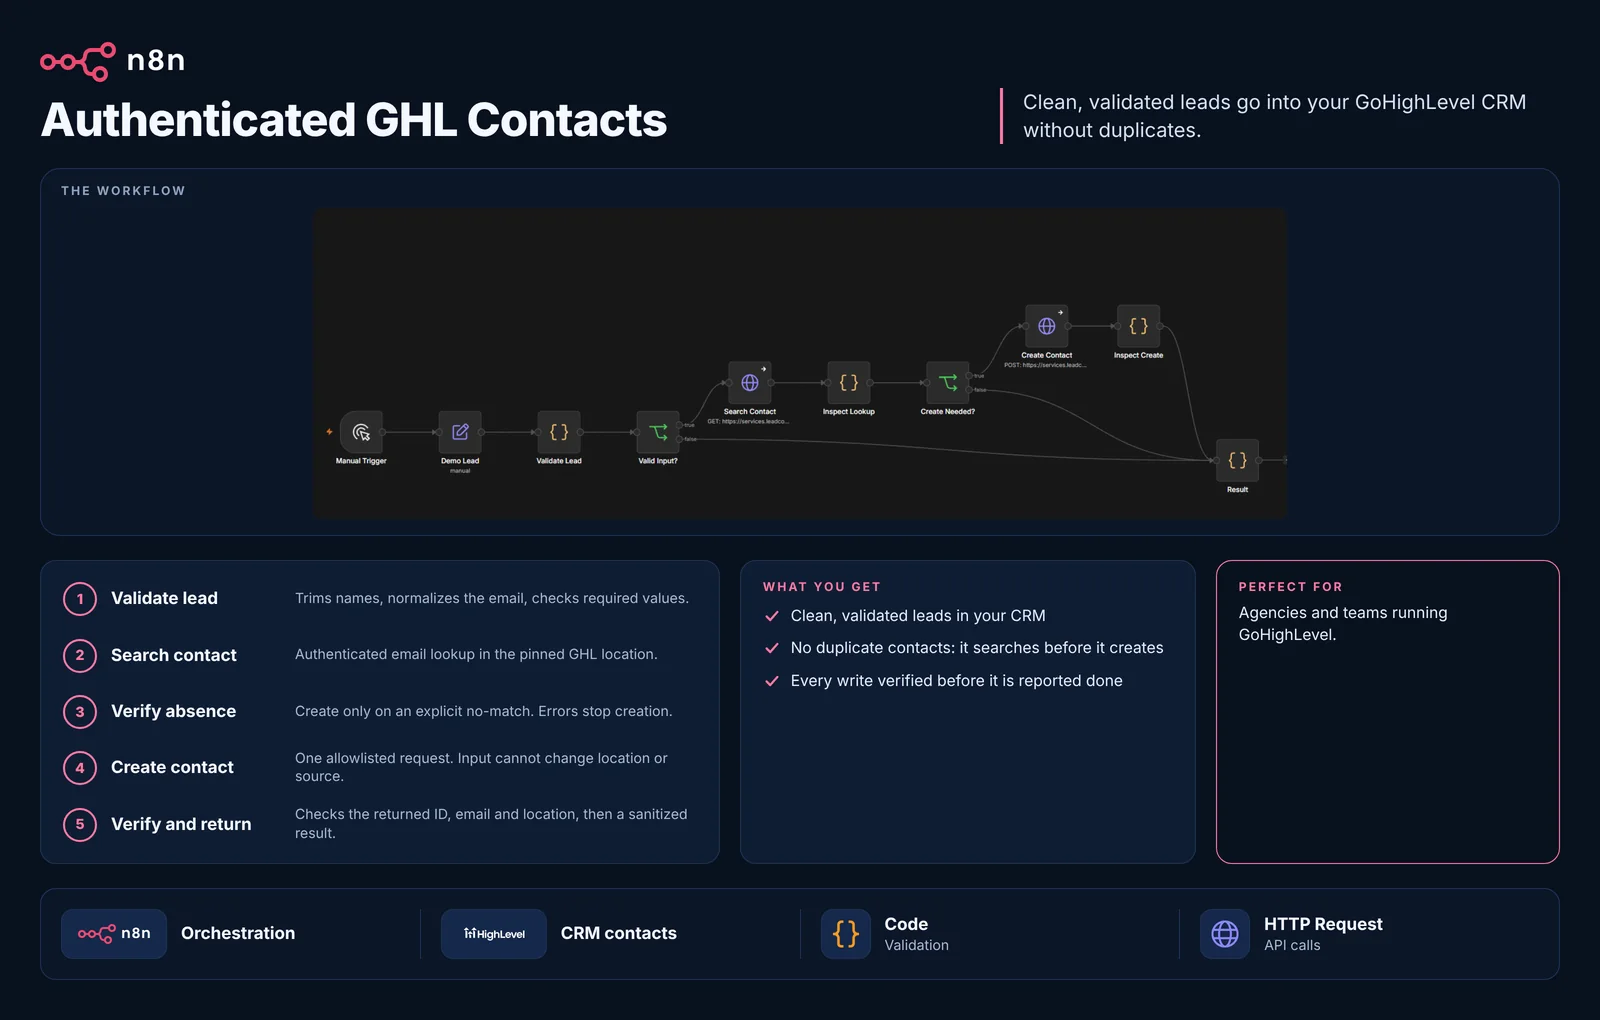
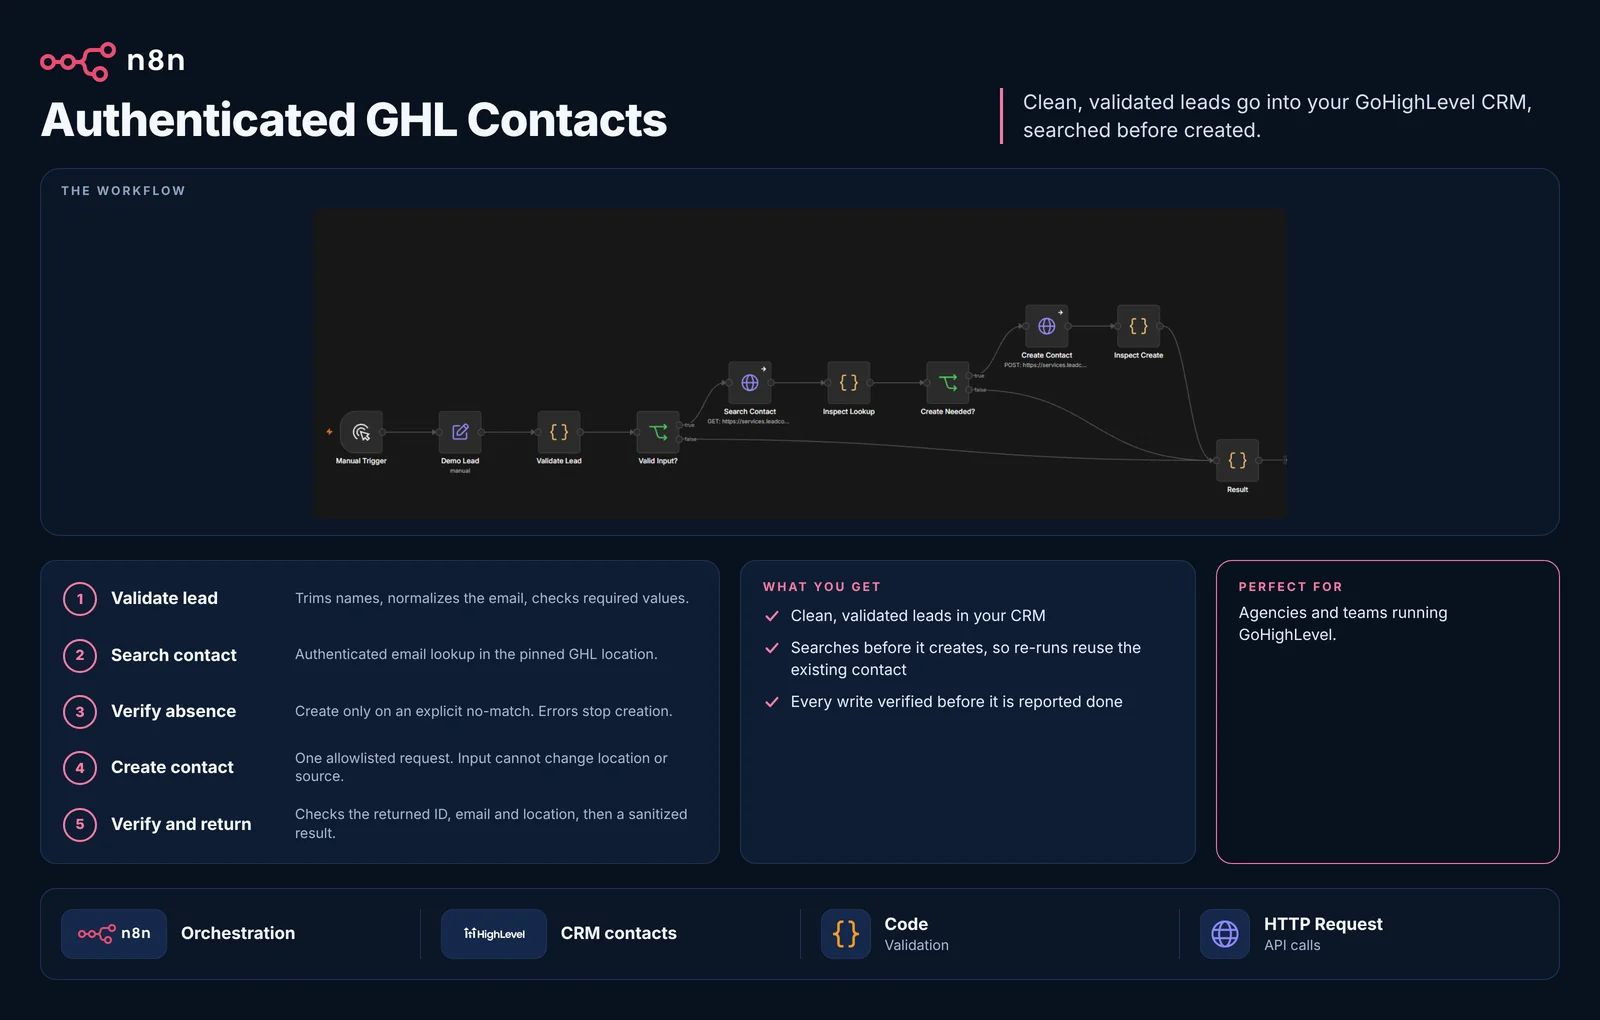
Add How I Work card and corrected workflow cards
- Replace the Lead Routing and GHL Contacts cards with versions whose
  claims match the sequential-only testing
- Show the How I Work card in PROFILE, with the text list in a
  "Read as text" toggle
- iTip started Sep 2026 (site and CV)
- Image prompts: drop the unused stack.png and label stat.png as the
  PROFILE tile

Claude-Session: https://claude.ai/code/session_01AKBumdKcskZ2TwcWs6rAvC

Changed region(s): [[0.4688, 0.6078, 0.7188, 0.699], [0.625, 0.1216, 0.7812, 0.152]]

diff --git a/src/components/Profile.tsx b/src/components/Profile.tsx
@@ -64,17 +64,40 @@ export default function Profile({ onTabChange }: { onTabChange: (tab: TabId) => 
           {/* How I work */}
           <section className="gta-panel">
             <ListHeader>How I work</ListHeader>
-            <ol className="divide-y divide-white/10">
-              {howIWork.map((item, i) => (
-                <li key={item.title} className="flex gap-4 px-5 py-4">
-                  <span className="font-display text-3xl leading-none text-emerald-400">{String(i + 1).padStart(2, "0")}</span>
-                  <div>
-                    <h3 className="font-hud text-base font-semibold uppercase tracking-wider text-white">{item.title}</h3>
-                    <p className="mt-1 text-sm leading-relaxed text-white/75">{item.description}</p>
-                  </div>
-                </li>
-              ))}
-            </ol>
+            <a
+              href="/images/jm/how-i-work.webp"
+              target="_blank"
+              rel="noopener noreferrer"
+              className="group relative block bg-[#0b1220] focus:outline-none focus-visible:ring-2 focus-visible:ring-inset focus-visible:ring-emerald-400"
+            >
+              <Image
+                src="/images/jm/how-i-work.webp"
+                alt="How I Work: spec first, test the work, fail loudly, verify the output, and keep the team in sync."
+                width={1600}
+                height={900}
+                sizes="(min-width: 1024px) 800px, 100vw"
+                className="h-auto w-full"
+              />
+              <span className="absolute bottom-2 right-2 bg-black/80 px-2 py-1 font-hud text-xs uppercase tracking-wider text-white opacity-80 group-hover:opacity-100">
+                Open full size ↗
+              </span>
+            </a>
+            <details className="group/details border-t border-white/10">
+              <summary className="cursor-pointer list-none px-5 py-3 font-hud text-sm font-semibold uppercase tracking-wider text-white/70 hover:text-white">
+                Read as text
+              </summary>
+              <ol className="divide-y divide-white/10">
+                {howIWork.map((item, i) => (
+                  <li key={item.title} className="flex gap-4 px-5 py-4">
+                    <span className="font-display text-3xl leading-none text-emerald-400">{String(i + 1).padStart(2, "0")}</span>
+                    <div>
+                      <h3 className="font-hud text-base font-semibold uppercase tracking-wider text-white">{item.title}</h3>
+                      <p className="mt-1 text-sm leading-relaxed text-white/75">{item.description}</p>
+                    </div>
+                  </li>
+                ))}
+              </ol>
+            </details>
           </section>
 
           {/* Experience */}

diff --git a/docs/cv/cv.html b/docs/cv/cv.html
@@ -43,7 +43,7 @@
   <h2>WORK EXPERIENCE</h2>
 
   <div class="item">
-    <div class="row"><span class="org">iTip Kuwait</span><span>Ongoing</span></div>
+    <div class="row"><span class="org">iTip Kuwait</span><span>Sep 2026 – Present</span></div>
     <div class="row"><span class="role">Software Developer</span><span>Remote</span></div>
     <ul>
       <li>Improving iTip, a QR-code digital tipping platform for Kuwait with separate Admin, Merchant and Staff portals (TanStack Start, React, TypeScript, Supabase).</li>

diff --git a/src/data/portfolio.ts b/src/data/portfolio.ts
@@ -475,7 +475,7 @@ export const portfolioData: PortfolioData = {
     {
       company: "iTip (Kuwait)",
       role: "Software Developer",
-      period: "Ongoing",
+      period: "Sep 2026 – Present",
       location: "Remote",
       bullets: [
         "Improving iTip, an existing QR-code tipping platform with Admin, Merchant, and Staff portals.",

diff --git a/docs/IMAGE_PROMPTS.md b/docs/IMAGE_PROMPTS.md
@@ -50,7 +50,7 @@ The same young Filipino man in a black hoodie, sitting at a desk in a dim high-r
 The same young Filipino man walking confidently down a palm-lined boulevard at dusk, laptop bag over one shoulder, wireless earbuds, holding a phone showing a notification. Hills and a city skyline behind him, warm orange sky. Low-angle shot, subject on the right third.
 ```
 
-## Menu tiles (5 larawan)
+## Menu tiles (4 larawan)
 
 Sukat: **1536 × 1024** (3:2). Ipinapakita ang mga ito bilang malapad na strip (halos 3:1), kaya ilagay ang pangunahing bagay sa **gitnang pahalang na bahagi**. Mapuputol ang itaas at ibaba.
 
@@ -66,16 +66,10 @@ Top-down view of a heist-style planning table at night: printed website wirefram
 A neon-lit control room at night: a wall of screens showing connected workflow nodes and arrows, glowing cables linking a laptop, a phone with chat notifications and a spreadsheet on a tablet, small gears and lightning icons floating between them. Main objects arranged across the horizontal middle band.
 ```
 
-### `stat.png`: STATS
+### `stat.png`: PROFILE
 
 ```
 A stylized character stats screen inside a garage at night: a large monitor showing skill bars and a radar, a gaming chair, a scooter helmet on the desk, warm light from a half-open garage door. Main objects arranged across the horizontal middle band.
-```
-
-### `stack.png`: STACKS
-
-```
-A circular selection wheel, like a video game item wheel, floating over a dark city background, each slot holding a tech tool instead of a weapon: a laptop, a keyboard, a database server, a smartphone, a wrench, a coffee cup, a cloud icon and a terminal window. Centered horizontally, glowing orange highlight on one slot.
 ```
 
 ### `role.png`: ROLES
